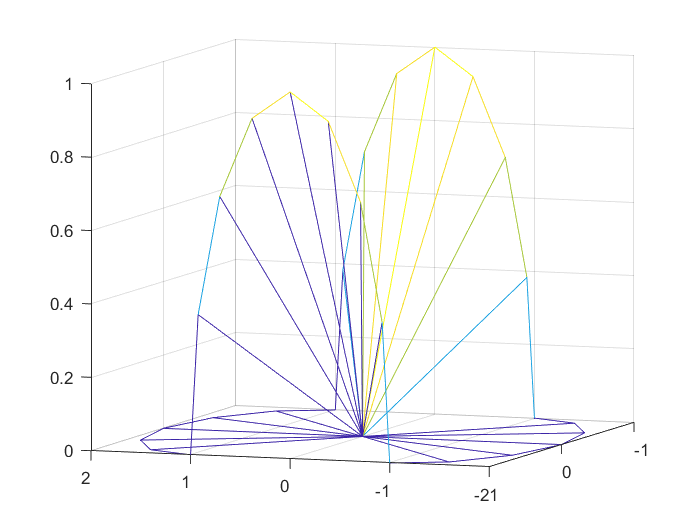
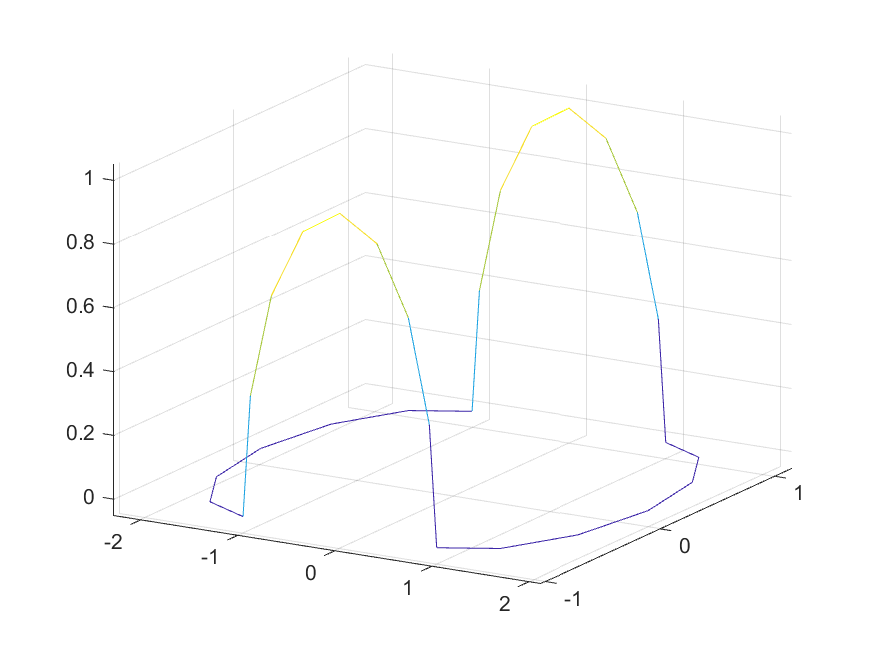
priprava

diff --git a/Koda/koda.m b/Koda/koda.m
@@ -1,4 +1,4 @@
-[Bx,By,Bz] = deal(zeros(9,7));
+[Bx,By,Bz] = deal(NaN(9,7));
 
 phi = linspace(0,pi,7);
 psi = linspace(0,pi,9);
@@ -14,9 +14,12 @@ Bx(:,7) = cos(psi);
 By(:,7) = 1;
 Bz(:,7) = sin(psi);
 
+Bz(1,:) = 0;
+Bz(end,:) = 0;
+
 mesh(Bx, By, Bz,  'FaceColor', 'None');
 %Kontrolne tocke Coonsove ploskve:
-[Bx,By,Bz] = coons(Bx,By,Bz);
+%[Bx,By,Bz] = coons(Bx,By,Bz);
 
 %Tocke na ploskvi:
 u = linspace(0,1,100);
@@ -25,7 +28,7 @@ v = linspace(0,1,100);
 [bx, by, bz] = bezier2(Bx,By,Bz,u,v);
 
 %graf
-surf(bx, by, bz); %nariše krivuljo na sliki oziroma vkrivljeno ploskev majhnih pravokotničkov, ki se ne prilegajo popolnoma funkciji mesh
+%surf(bx, by, bz); %nariše krivuljo na sliki oziroma vkrivljeno ploskev majhnih pravokotničkov, ki se ne prilegajo popolnoma funkciji mesh
 hold on
-mesh(Bx, By, Bz, 'FaceColor', 'None');  %prozorne pravokotnike naredi v pravi obliki
+%mesh(Bx, By, Bz, 'FaceColor', 'None');  %prozorne pravokotnike naredi v pravi obliki
 hold on
